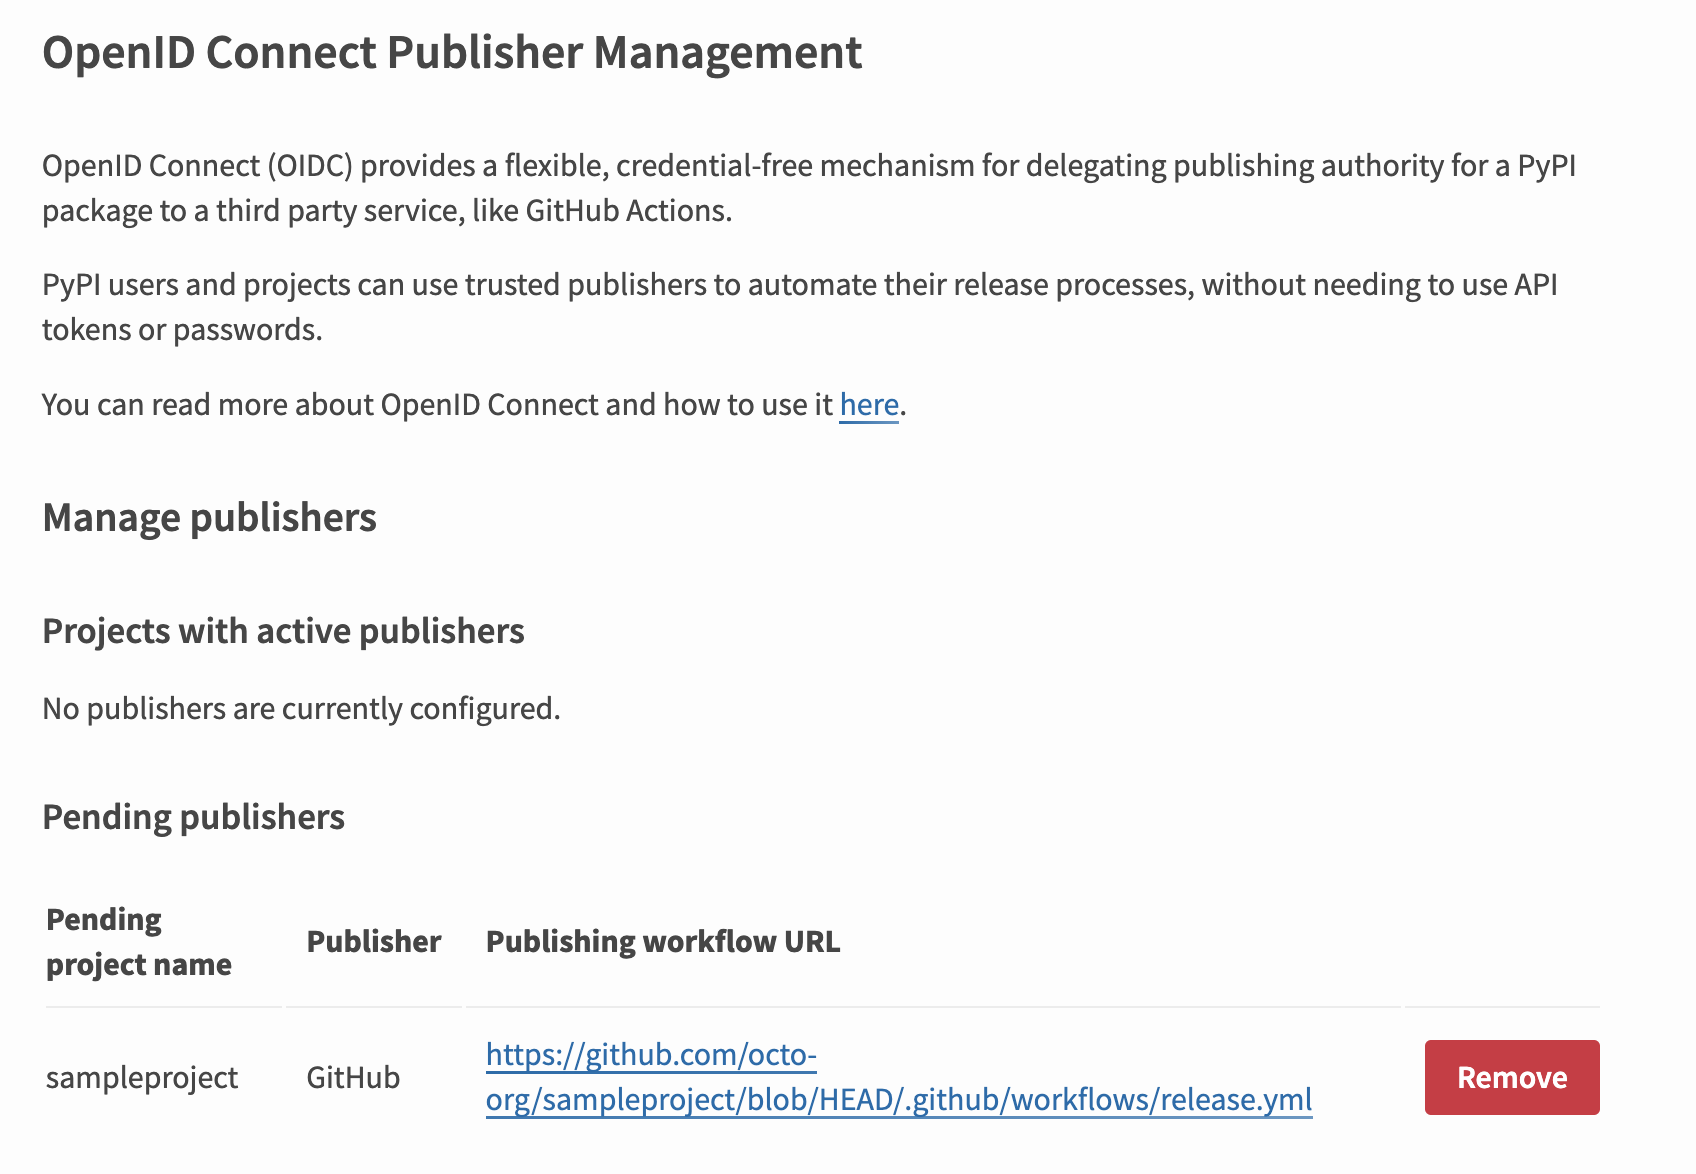
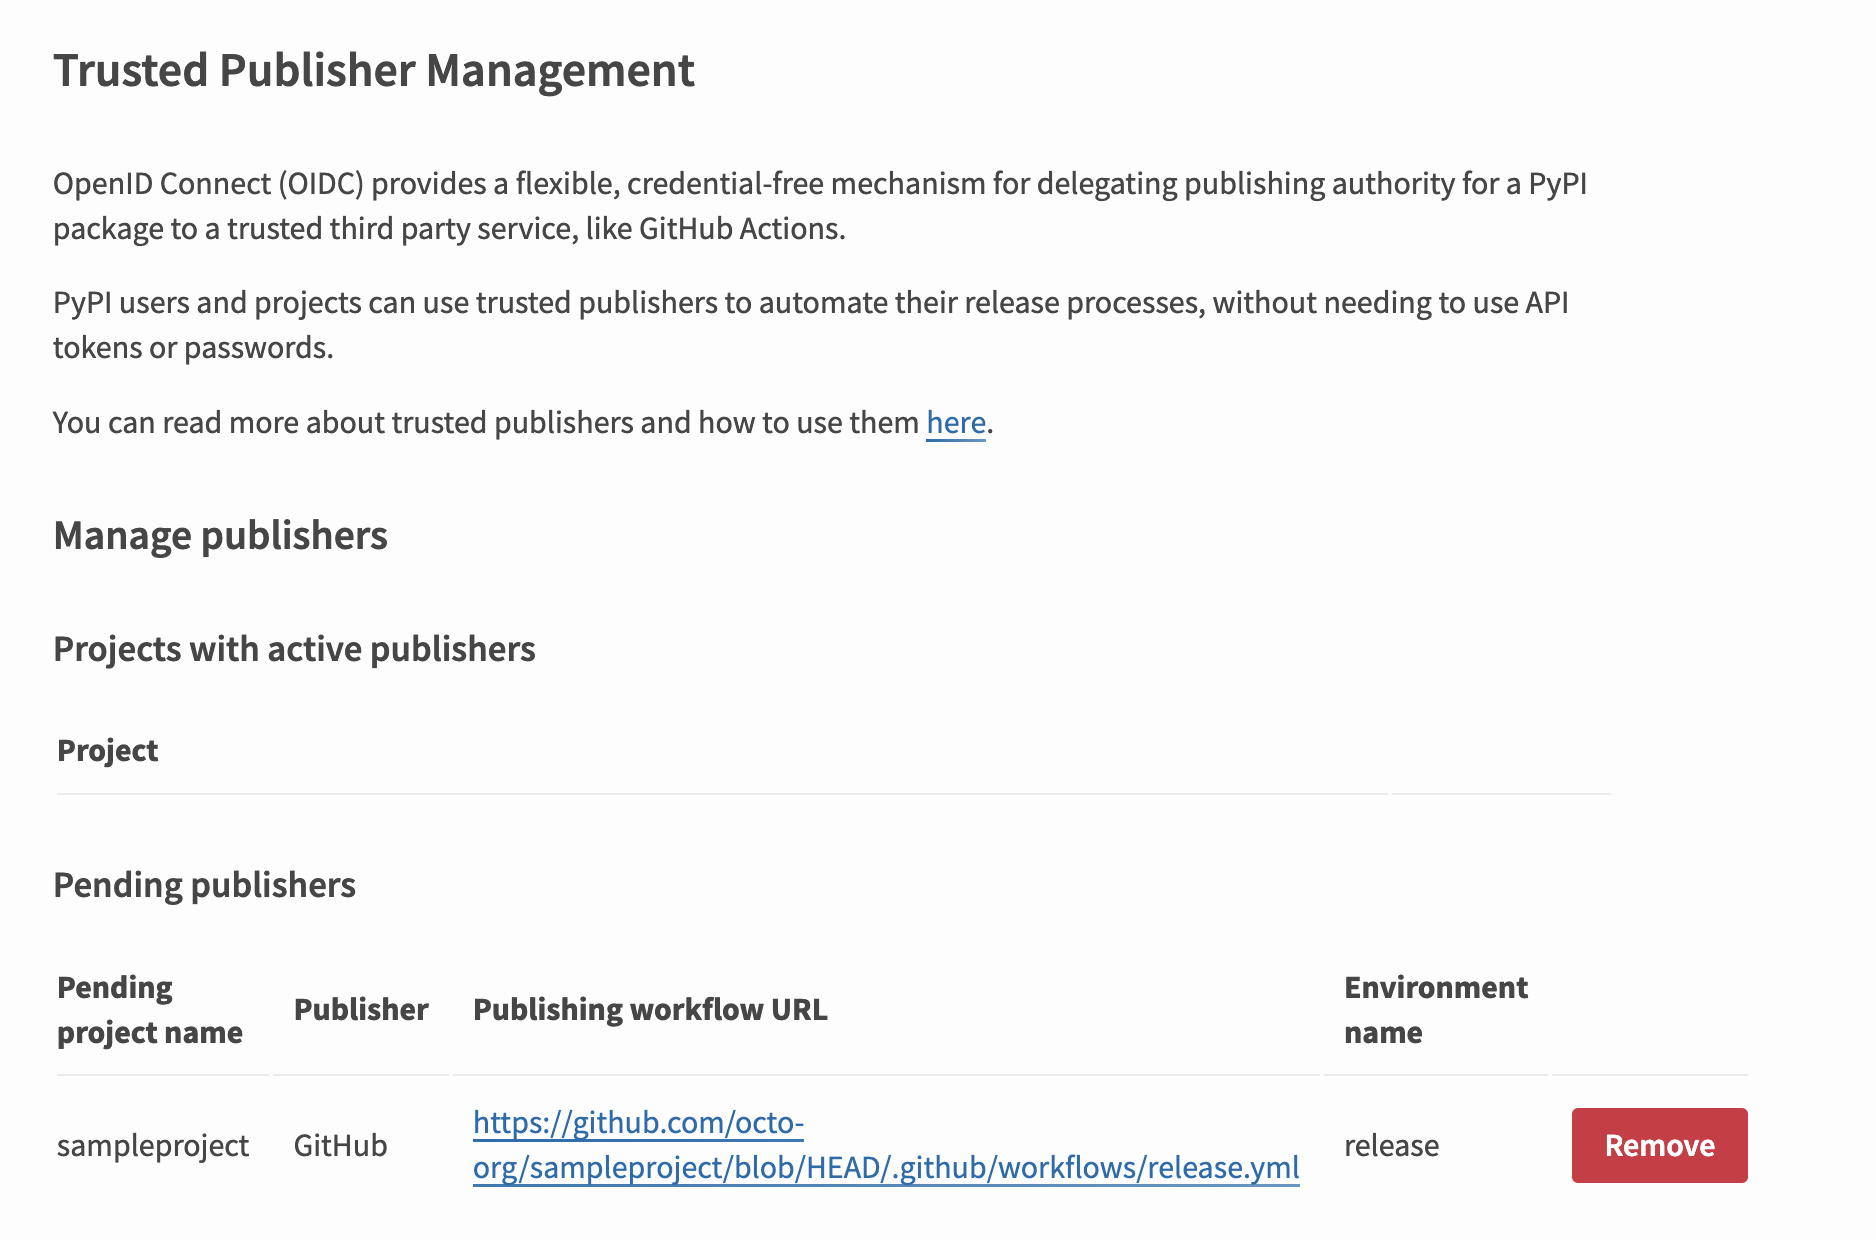
docs: more screenshots, fix more refs

diff --git a/docs/user/trusted-publishers/using-a-publisher.md b/docs/user/trusted-publishers/using-a-publisher.md
@@ -64,10 +64,10 @@ won't have sufficient permissions to identify itself to PyPI.
 
 ### Publishing to indices other than PyPI
 The PyPA's [`pypi-publish`](https://github.com/marketplace/actions/pypi-publish)
-action also supports OIDC publishing with other (non-PyPI) indices, provided
-they have OIDC enabled (and you've configured your OIDC publisher on them). For
-example, here's how you can publish to [TestPyPI](https://test.pypi.org) using
-OIDC:
+action also supports trusted publishing with other (non-PyPI) indices, provided
+they have trusted publishing enabled (and you've configured your trusted
+publisher on them). For example, here's how you can use trusted publishing on
+[TestPyPI](https://test.pypi.org):
 
 ```yaml
 - name: Publish package distributions to TestPyPI

diff --git a/docs/user/trusted-publishers/creating-a-project-through-oidc.md b/docs/user/trusted-publishers/creating-a-project-through-oidc.md
@@ -31,8 +31,8 @@ also need to provide the name of the PyPI project that will be created.
 
 For example, if you have a repository at
 `https://github.com/octo-org/sampleproject` with a release workflow at
-`release.yml` and you'd like to publish it to PyPI as `sampleproject`, you'd do
-the following:
+`release.yml` and an environment named `release` that you would like to publish
+to PyPI as `sampleproject`, then you would do the following:
 
 ![](/assets/pending-publisher-form-filled.png)
 
